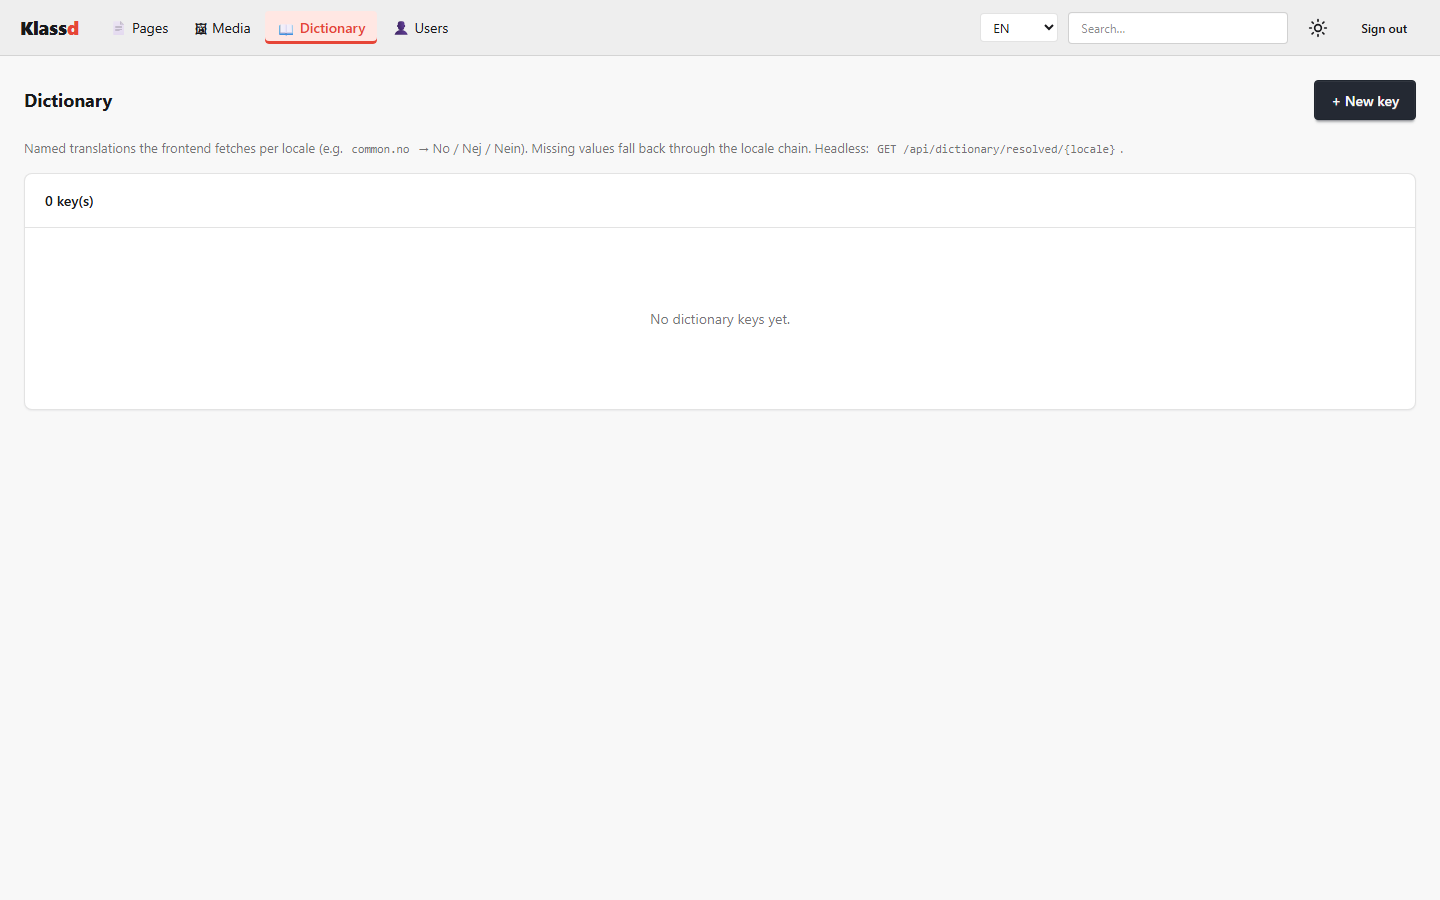
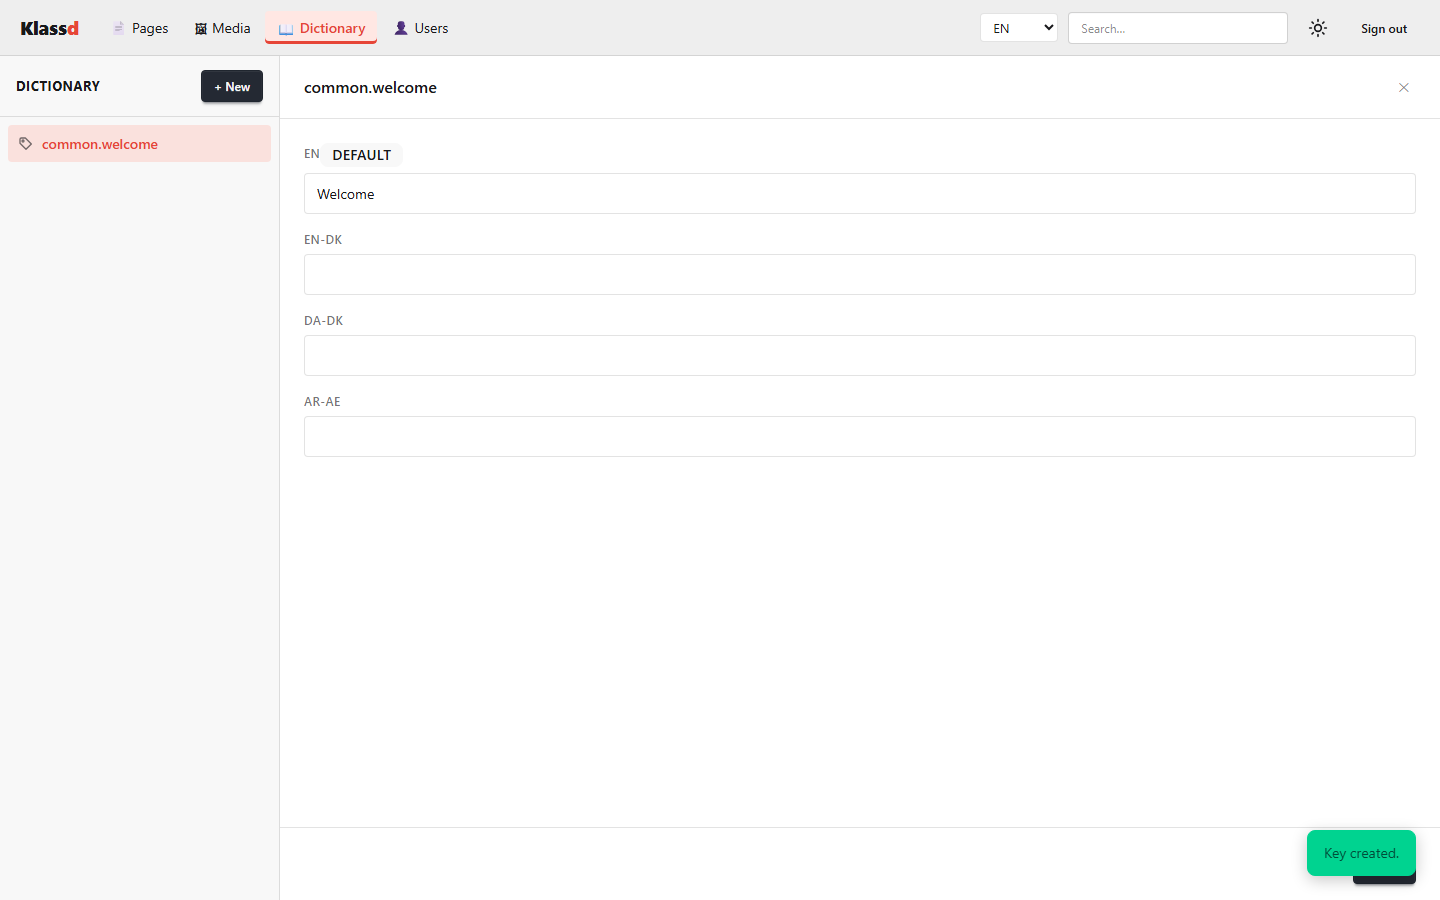
feat(admin): Dictionary on the rail — keys left, all languages right
Move dictionary keys into the full-height left rail (tag icon, coral
active row); selecting one shows every locale value for that key in the
flush detail editor (default locale flagged), with Save and Delete.
The new-key form reuses the same detail editor. Replaces the old
full-width table.

diff --git a/tests/Klassd.UiTests/ScreenshotCaptureTests.cs b/tests/Klassd.UiTests/ScreenshotCaptureTests.cs
@@ -106,9 +106,15 @@ public class ScreenshotCaptureTests : PageTest
         await Expect(Page.Locator(".context-tree-header h2")).ToHaveTextAsync("Users");
         await ShotAsync("05-users.png");
 
-        // ── 6. Dictionary ─────────────────────────────────────────────
+        // ── 6. Dictionary (create a key so the rail + per-language editor aren't empty) ──
         await Page.GotoAsync(Url("/admin/dictionary"));
-        await Expect(Page.Locator("h1")).ToHaveTextAsync("Dictionary");
+        await Expect(Page.Locator(".context-tree-header h2")).ToHaveTextAsync("Dictionary");
+        await Page.ClickAsync("button:has-text('+ New')");
+        var dictInputs = Page.Locator(".edit-col input[type='text']");
+        await dictInputs.First.FillAsync("common.welcome");   // Key is the first text input
+        await dictInputs.Nth(1).FillAsync("Welcome");          // first locale value
+        await Page.ClickAsync("button:has-text('Create key')");
+        await Expect(Page.Locator(".context-list").GetByText("common.welcome")).ToBeVisibleAsync();
         await ShotAsync("06-dictionary.png");
 
         // ── 7. Dark-mode pass ─────────────────────────────────────────
